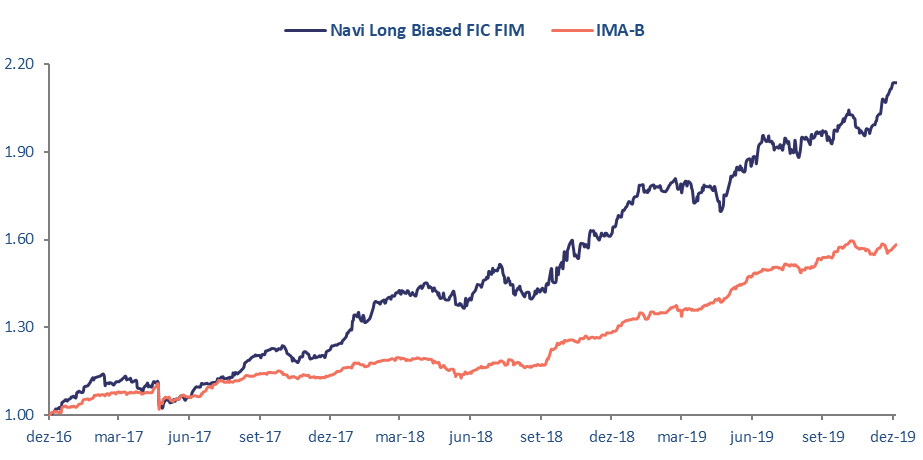
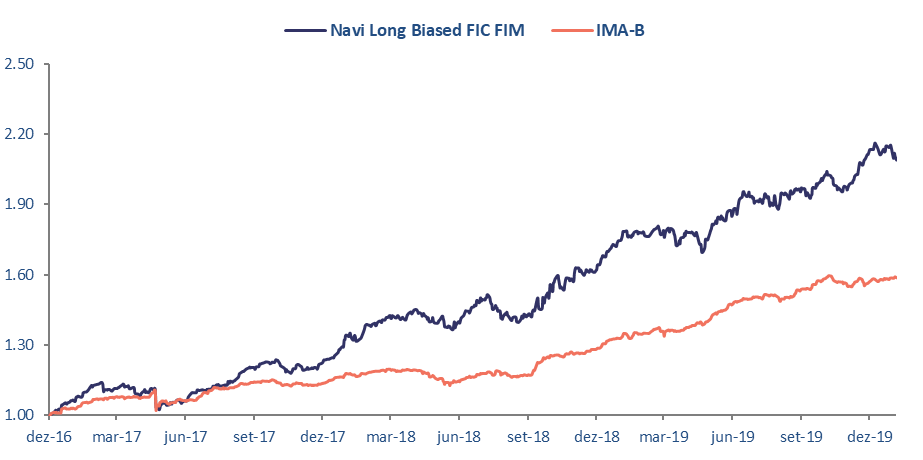
Update Jan2020

diff --git a/index.html b/index.html
@@ -640,18 +640,18 @@
                 <tbody>
                   <tr>
                     <td>Fundo</td>
-                    <td>205,10%	</td>
-                    <td>41,38%	</td>
-                    <td>25,72%	</td>
-                    <td>9,45%	</td>
-                    <td>R$ 909M</td>
+                    <td>202,24%	</td>
+                    <td>36,28%	</td>
+                    <td>21,69%	</td>
+                    <td>6,06%	</td>
+                    <td>R$ 900M</td>
                   </tr>
                   <tr>
                     <td>CDI</td>
-                    <td>137,86%	</td>
-                    <td>23,99%	</td>
-                    <td>12,77%	</td>
-                    <td>5,96%	</td>
+                    <td>138,76%	</td>
+                    <td>23,12%	</td>
+                    <td>12,53%	</td>
+                    <td>5,78%	</td>
                     <td>-</td>
                   </tr>
                 </tbody>
@@ -660,7 +660,7 @@
             <div class="row">
               <div class="col-lg-8">
                 <img src="img/graficos/graficoLS.png" alt="" class="">
-                <p>Dados de 31/12/2019 e início do fundo em 29/09/2010.</p>
+                <p>Dados de 31/01/2020 e início do fundo em 29/09/2010.</p>
               </div>
               <div class="col-lg-4">
                 <p>
@@ -726,18 +726,18 @@
                   <tbody>
                     <tr>
                       <td>Fundo</td>
-                      <td>113,52%</td>
-                      <td>112,08%</td>
-                      <td>72,60%</td>
-                      <td>29,84%</td>
+                      <td>109,03%</td>
+                      <td>94,44%</td>
+                      <td>55,20%</td>
+                      <td>17,06%</td>
                       <td>R$ 893M</td>
                     </tr>
                     <tr>
                       <td>IMA-B</td>
-                      <td>58,39%</td>
-                      <td>56,79%</td>
-                      <td>39,01%</td>
-                      <td>22,95%</td>
+                      <td>58,80%</td>
+                      <td>54,32%</td>
+                      <td>34,79%</td>
+                      <td>18,11%</td>
                       <td>-</td>
                     </tr>
                   </tbody>
@@ -746,7 +746,7 @@
               <div class="row">
                 <div class="col-lg-8">
                   <img src="img/graficos/graficoLB.png" alt="" class="">
-                  <p>Dados de 31/12/2019 e início do fundo em 27/12/2016.</p>
+                  <p>Dados de 31/01/2020 e início do fundo em 27/12/2016.</p>
                 </div>
                 <div class="col-lg-4">
                   <p>
@@ -813,18 +813,18 @@
                   <tbody>
                     <tr>
                       <td>Fundo</td>
-                      <td>39,45%</td>
+                      <td>38,66%</td>
                       <td>-</td>
-                      <td>31,61%</td>
-                      <td>12,52%</td>
-                      <td>R$ 95M</td>
+                      <td>27,09%</td>
+                      <td>8,88%</td>
+                      <td>R$ 92M</td>
                     </tr>
                     <tr>
                       <td>CDI</td>
-                      <td>18,75%</td>
+                      <td>19,19%</td>
                       <td>-</td>
-                      <td>12,77%</td>
-                      <td>5,96%</td>
+                      <td>12,53%</td>
+                      <td>5,78%</td>
                       <td>-</td>
                     </tr>
                   </tbody>
@@ -833,7 +833,7 @@
               <div class="row">
                 <div class="col-lg-8">
                   <img src="img/graficos/graficoPrev.png" alt="" class="">
-                  <p>Dados de 31/12/2019 e início do fundo em 18/05/2017.</p>
+                  <p>Dados de 31/01/2020 e início do fundo em 18/05/2017.</p>
                 </div>
                 <div class="col-lg-4">
                   <p>
@@ -896,18 +896,18 @@
                   <tbody>
                     <tr>
                       <td>Fundo</td>
-                      <td>261,55%</td>
-                      <td>139,93%</td>
-                      <td>89,46%</td>
-					  <td>41,32%</td>
-                      <td>R$ 1.214M</td>
+                      <td>272,68%</td>
+                      <td>115,18%</td>
+                      <td>63,81%</td>
+					  <td>22,87%</td>
+                      <td>R$ 1.182M</td>
                     </tr>
                     <tr>
                       <td>Ibovespa</td>
-                      <td>166,77%</td>
-					  <td>92,01%</td>
-                      <td>51,36%</td>
-					  <td>31,58%</td>
+                      <td>181,54%</td>
+					  <td>75,91%</td>
+                      <td>33,97%</td>
+					  <td>16,80%</td>
                       <td>-</td>
                     </tr>
                   </tbody>
@@ -916,7 +916,7 @@
               <div class="row">
                 <div class="col-lg-8">
                   <img src="img/graficos/graficoLO.png" alt="" class="">
-                  <p>Dados de 31/12/2019 e início do fundo em 30/09/2011.</p>
+                  <p>Dados de 31/01/2020 e início do fundo em 30/09/2011.</p>
                 </div>
                 <div class="col-lg-4">
                   <p>
